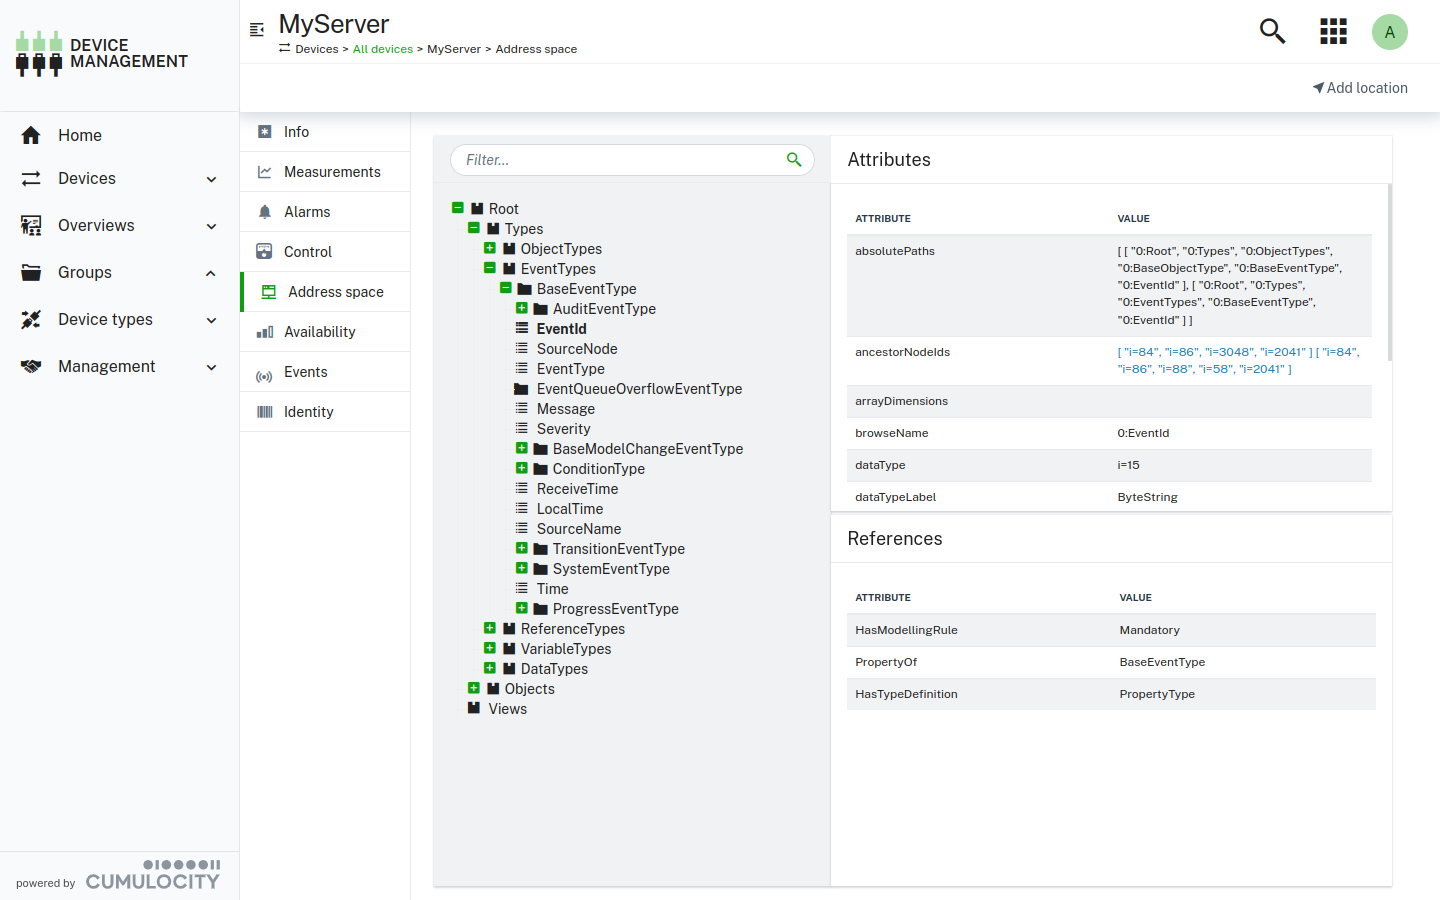
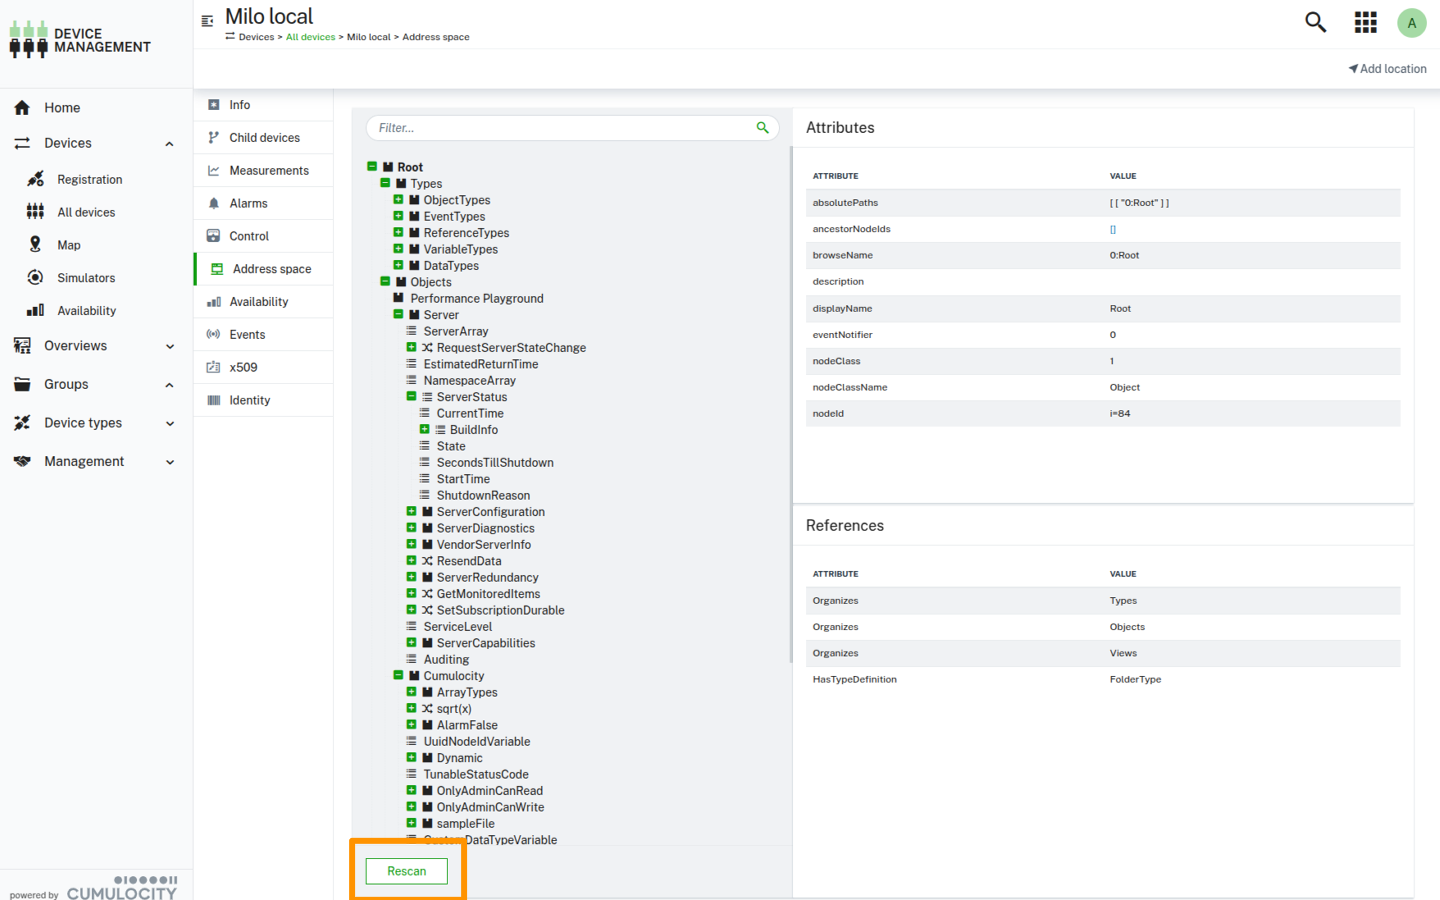
DM-2048 - opcua partial address space scan and manual rescan from UI

diff --git a/content/device-integration/opcua-bundle/operations.md b/content/device-integration/opcua-bundle/operations.md
@@ -27,18 +27,22 @@ The twinned address space information is persisted in the {{< product-c8y-iot >}
 
 Once the device gateway knows the address space, it uses it to handle different logics, for example applying device protocols to nodes. So if you already have the address space scanned once and stored in {{< product-c8y-iot >}}, you might want the device gateway to learn one more time about server's address space without synchronizing data into {{< product-c8y-iot >}}. To achieve that, provide `"skipSync": true`.
 
-When you would like to scan partial address space, you can provide the `nodeId` property which is used as a start node for the scan operation.
-The subaddress space starting from this node as well as the ancestor nodes will be persisted in the {{< product-c8y-iot >}} inventory (unless `"skipSync": true` is provided) as well as in the local address space file of the gateway.
-
+To do a partial address space scan, you can provide the `nodeIds` property which contains all node IDs that should be scanned.
+The subaddress space starting from those nodes as well as the ancestor nodes are persisted both in the {{< product-c8y-iot >}} inventory, unless `skipSync` is set to `true`, and in the local address space file of the gateway.
 ```
 POST /devicecontrol/operations/
 
 {
-    "deviceId": "<server-device-Id>",
-    "c8y_ua_command_ScanAddressSpace": {
-            "nodeId":"ns=2;s=MyDevice"
-    },
-    "description": "Import address space from MyDevice node"
+  "deviceId": "<server-device-Id>",
+  "c8y_ua_command_ScanAddressSpace": {
+    "nodeIds": [
+      "ns=3;i=1005",
+      "ns=3;i=1001",
+      "ns=3;i=1004"
+    ],
+    "skipSync": false
+  },
+  "description": "Import address space from node(s) ns=3;i=1005,ns=3;i=1001,ns=3;i=1004. Triggered by custom operation"
 }
 ```
 

diff --git a/content/device-integration/opcua-bundle/connecting-gateway.md b/content/device-integration/opcua-bundle/connecting-gateway.md
@@ -14,7 +14,12 @@ Next, establish a connection between the gateway and the OPC UA server.
 5. Enter the **Status check interval** in seconds. The status check interval specifies how often the gateway actively checks if the server status has changed. These periodic checks are carried out by reading the *ServerStatus* variable on the OPC UA server.
 6. Select the **Security mode** and **Security policy** depending on the server configuration. For more info, see [Security modes](#security-modes).
 7. Select the desired authentication method. For more info, see [Authentication](/device-integration/opcua/#authentication).
-8. Click **Save**.
+8. You can configure the mode of the OPC UA server address scan under **Advanced settings**. If automatic address scanning is enabled the gateway immediately starts the scan after the new server connection is saved.
+   {{< c8y-admon-caution >}}
+   Be cautious with the address scan type. If it is set to "full", the gateway will scan the whole OPC UA server address space. Depending on the address space size and the speed of the OPC UA server this can take from minutes to days. We highly recommend you to set the address scan type to "partial" and configure only those node IDs you really want to scan.
+   You can add further node IDs later and do a rescan in the address space tab of the server object afterwards.
+   {{< /c8y-admon-caution >}}
+9. Click **Save**.
 
 {{< c8y-admon-info >}}
 Once a connection is established, the servers will be located in the **Child devices** tab. In there, the servers will contain additional data such as access to the address space.

diff --git a/content/device-integration/opcua-bundle/authentication.md b/content/device-integration/opcua-bundle/authentication.md
@@ -57,6 +57,8 @@ The address space is automatically scanned when a connection between the gateway
 In case a node cannot be read, the scan process skips this node and continues.
 An error entry is written to the opcua-device-gateway log file to provide information (more information available in debug level).
 
+To manually scan the address space click **Rescan**. You can monitor the progress by checking the rescan operation in the control tab.
+
 ![Gateway events tab](/images/device-protocols/opcua/opcua-address.png)
 
 ### Monitoring measurements {#monitoring-measurements}
